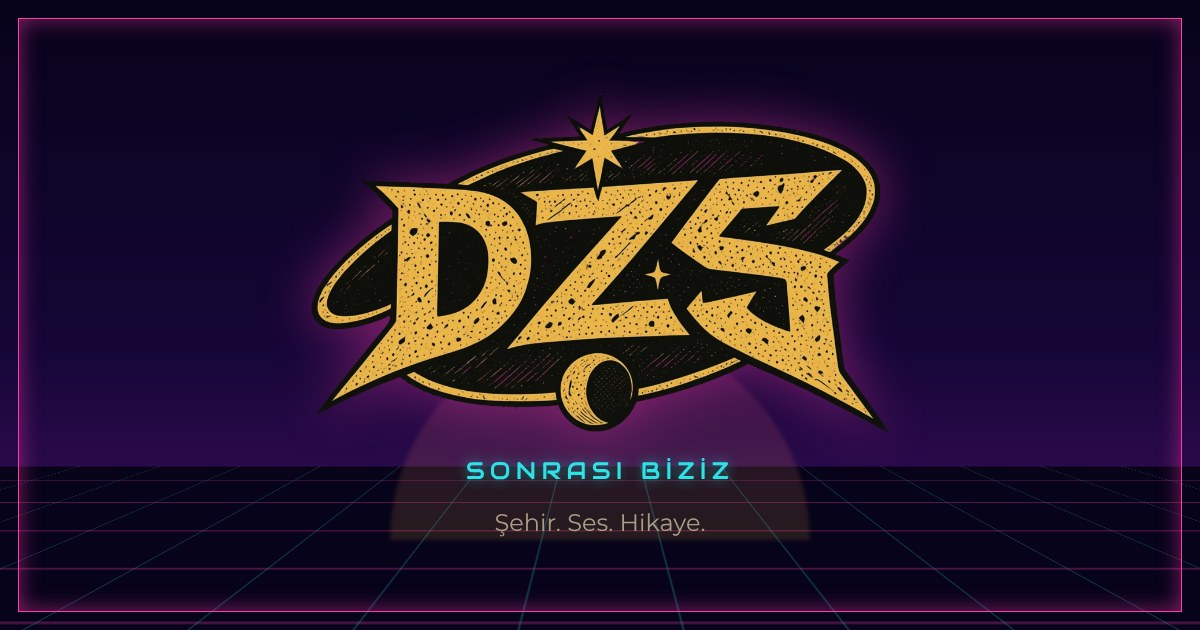
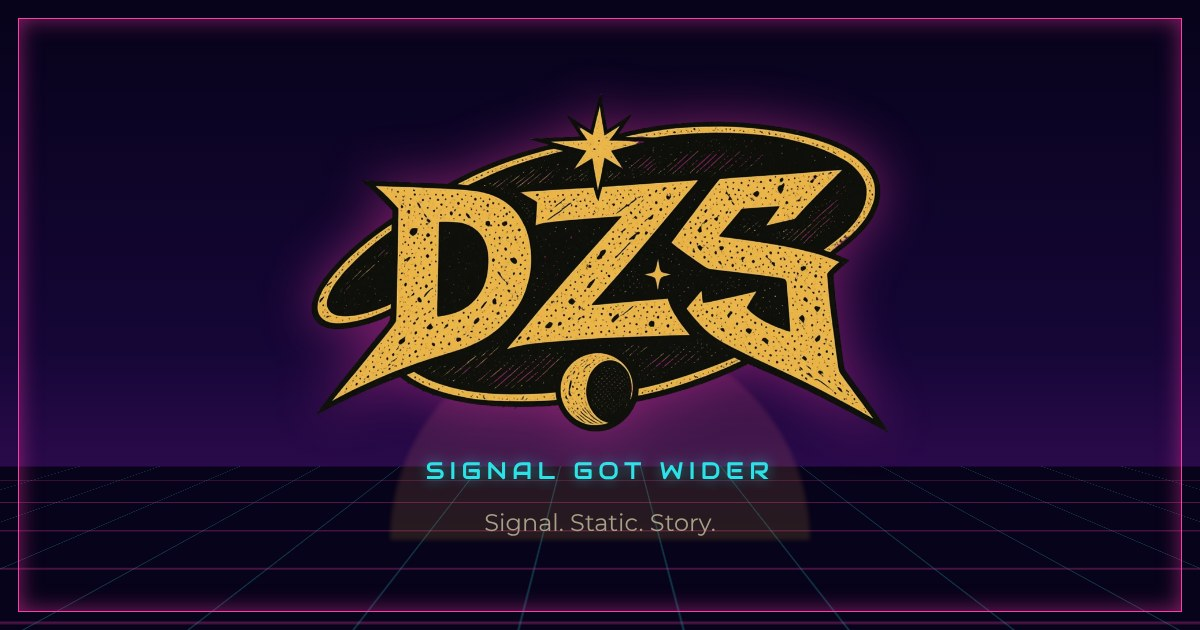
DZS sayfası Static Era'ya göre güncellendi: yeni sloganlar, onaylı biyografi, ses ve lirik temalar, Vesper Aurum vokal ve hikaye bağı; kalan şapkalı harfler temizlendi
Claude-Session: https://claude.ai/code/session_01XuAq7EsLGmZiotK8HZhaXV

Changed region(s): [[0.3392, 0.7238, 0.6475, 0.7841], [0.4008, 0.8143, 0.5858, 0.8444]]

diff --git a/assets/css/style.css b/assets/css/style.css
@@ -944,3 +944,5 @@ body.theme-dzs {
 .harita .pop p a { color: var(--gold); }
 .harita .pop p a.btn-primary { color: var(--obsidian); }
 .place-read .btn { margin-top: 0.2rem; }
+
+.dzs-tag-tr { margin: -0.7rem 0 1.2rem; font-size: 0.95rem; letter-spacing: 0.12em; color: var(--stone-muted); }

diff --git a/scripts/make-og.py b/scripts/make-og.py
@@ -51,7 +51,7 @@ def psynth(body): return BASE + SYNTH + body
 jobs = {}
 jobs['home'] = page('<div class="c"><img src="/assets/img/aedilis-media.webp" height="360"><div class="t" style="font-size:46px">Aedilis Media</div><div class="g">Geçmişten ilham, geleceğe etki</div></div>')
 jobs['muzik'] = page('<div class="c"><img src="/assets/img/aedilis-media-music.webp" height="360"><div class="t" style="font-size:46px">Aedilis Media Music</div><div class="g">DZS · Demonium Nihil</div></div>')
-jobs['dzs'] = psynth(f'<div class="c"><img src="/assets/img/dzs-logo.webp" height="340"><div class="g">{dzs["tagline"]}</div><div style="font-size:24px;color:#a99f88">{dzs["secondary"]}</div></div>')
+jobs['dzs'] = psynth(f'<div class="c"><img src="/assets/img/dzs-logo.webp" height="340"><div class="g" lang="en">{dzs["tagline"]}</div><div lang="en" style="font-size:24px;color:#a99f88">{dzs["secondary"]}</div></div>')
 dn = json.load(open(ROOT / 'data/dn.json'))
 jobs['tlnb'] = psynth(f'<div class="rel"><img class="cv" src="/{dzs["upcoming"]["cover"]}"><div class="tx"><h1 class="long">{dzs["upcoming"]["title"]}</h1><p>Yakında · {fmt(dzs["upcoming"]["date"])} · {dzs["upcoming"]["tracks"]} parça</p></div></div>')
 jobs['dn'] = page(f'<div class="c"><img src="/{dn["logo"]}" height="340"><div class="g" style="color:#d94a4a">{dn["tagline"]}</div><div style="font-size:24px;color:#a99f88">Gotik industrial · karanlık synthwave</div></div>')

diff --git a/content/journal/demonium-nihil-sahnesi.md b/content/journal/demonium-nihil-sahnesi.md
@@ -8,7 +8,7 @@ Demonium Nihil, Aedilis Media Music çatısı altında yürüyen karanlık ve go
 
 ## Adın anlamı
 
-Ad Latince kökenli. *Demonium* şeytanî olana, *Nihil* hiçliğe işaret eder. Birlikte “hiçliğin şeytanı” ya da “şeytanî yokluk” gibi bir şey söyler. Proje de tam bunu yapar: varoluşun boşluğuna tiyatro sahnesi kurar.
+Ad Latince kökenli. *Demonium* şeytani olana, *Nihil* hiçliğe işaret eder. Birlikte “hiçliğin şeytanı” ya da “şeytani yokluk” gibi bir şey söyler. Proje de tam bunu yapar: varoluşun boşluğuna tiyatro sahnesi kurar.
 
 ## Ses ve tema
 
